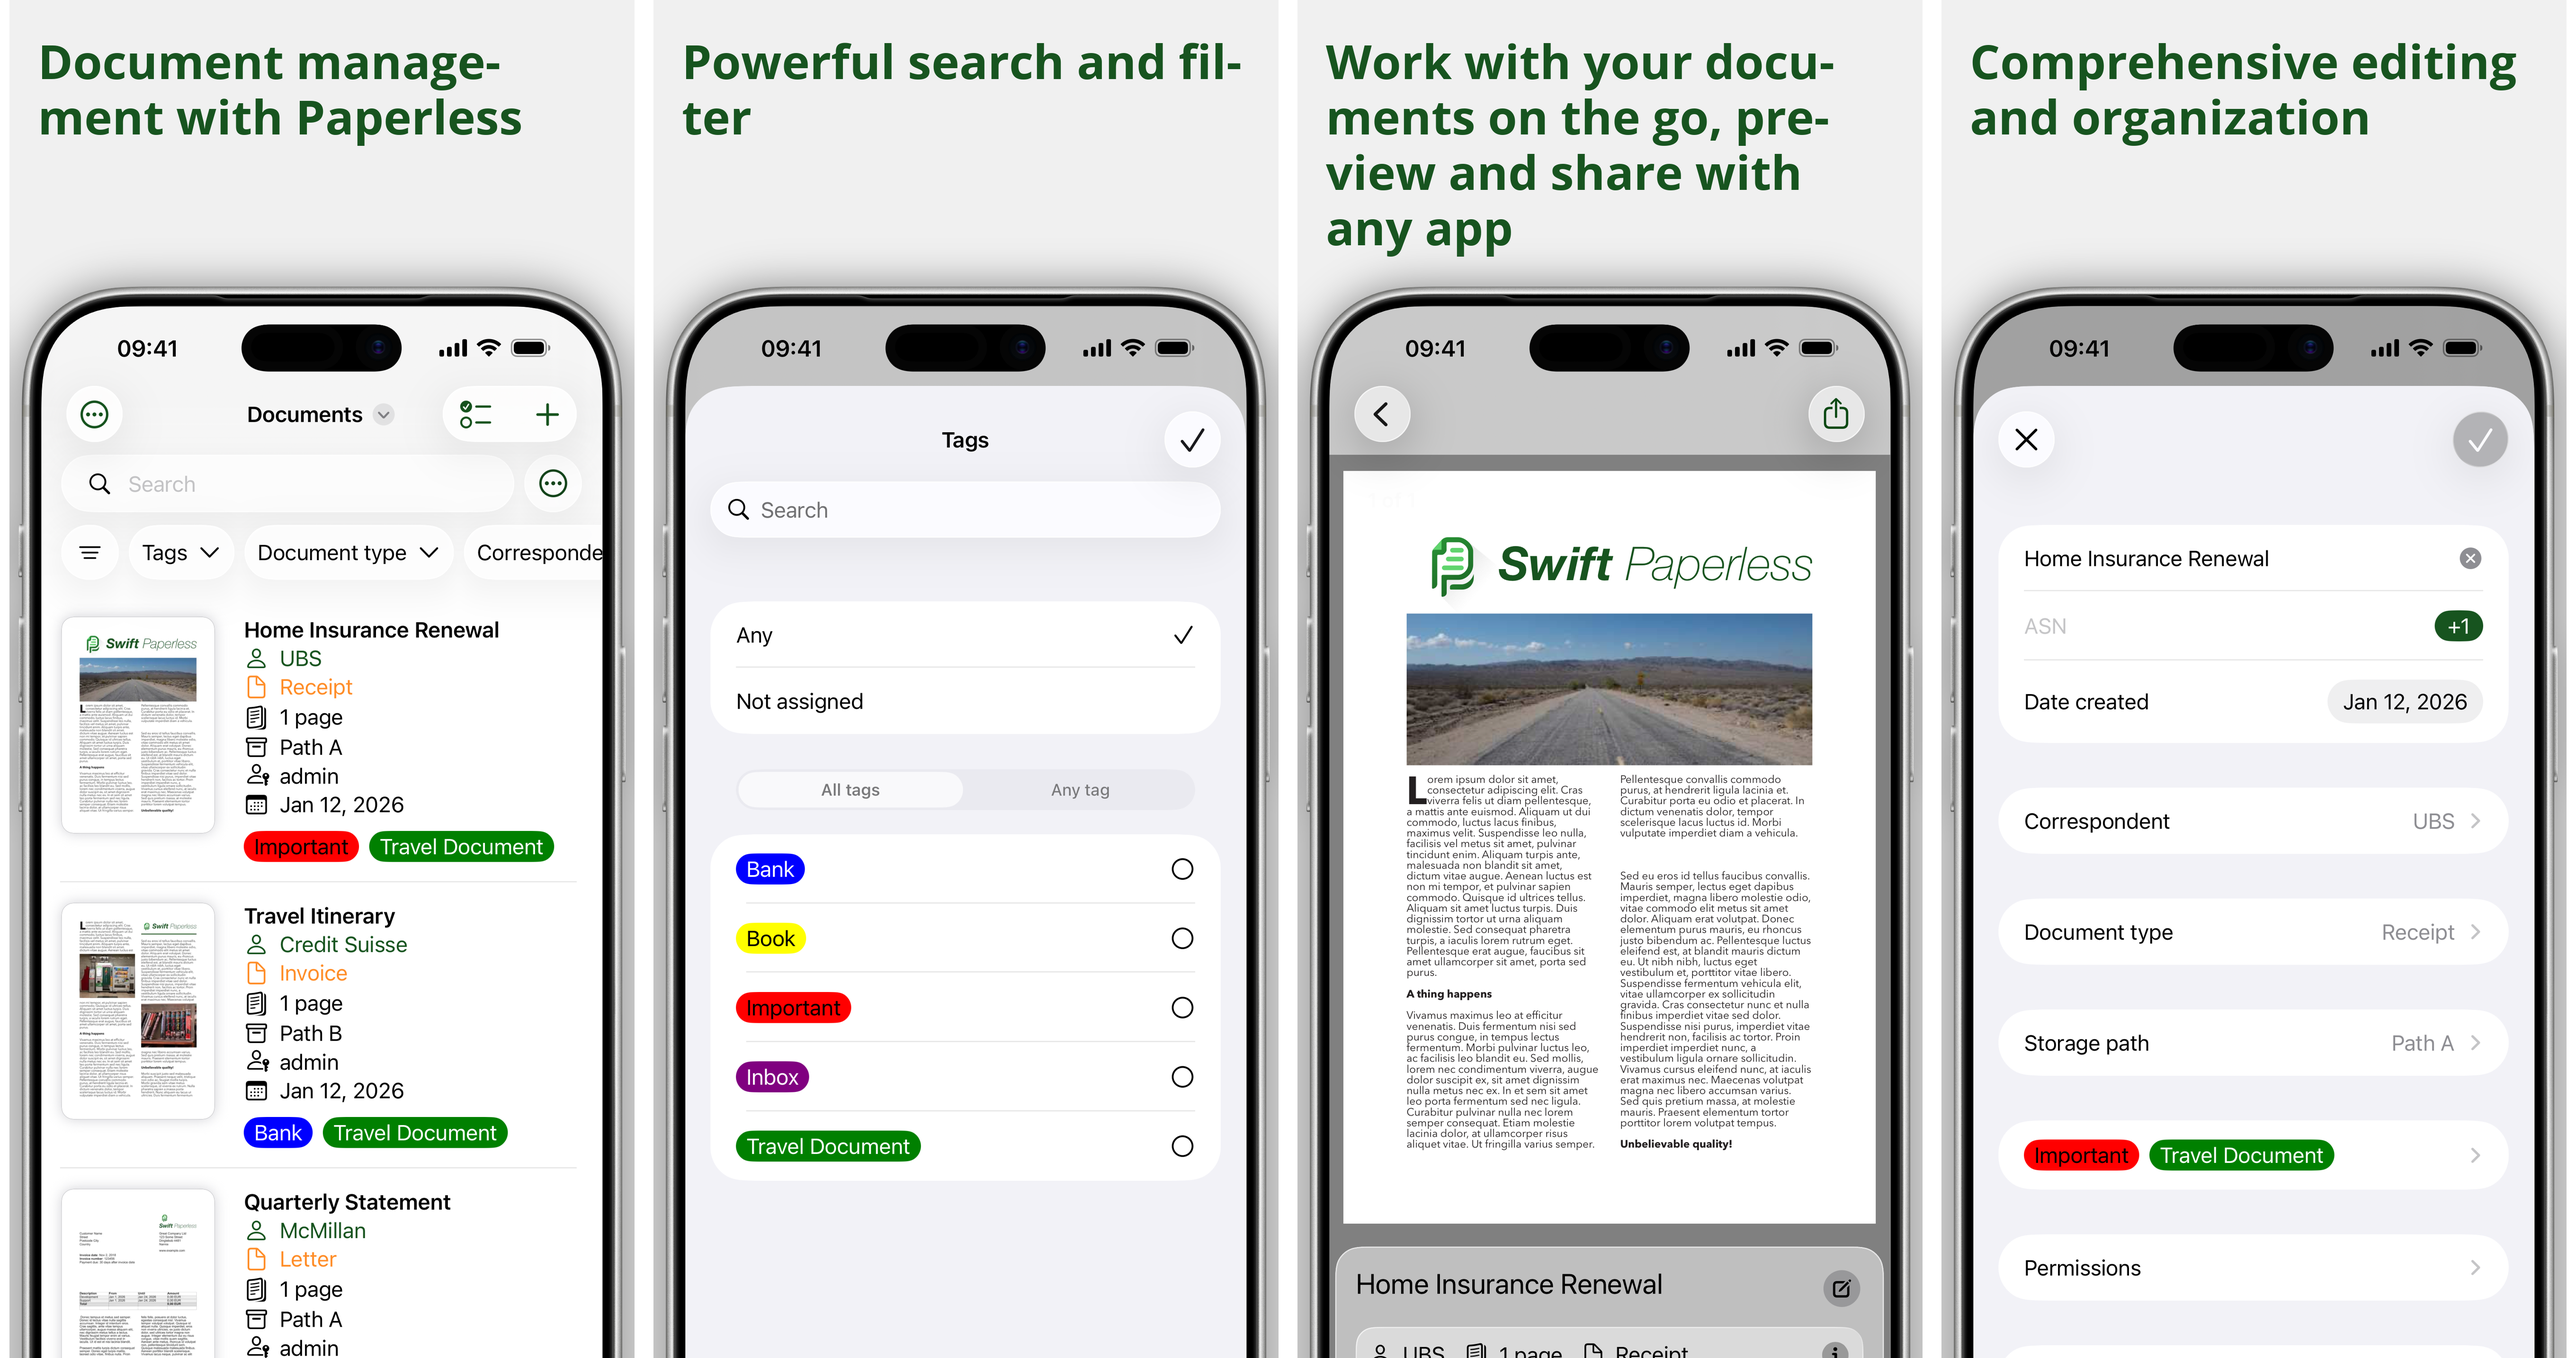
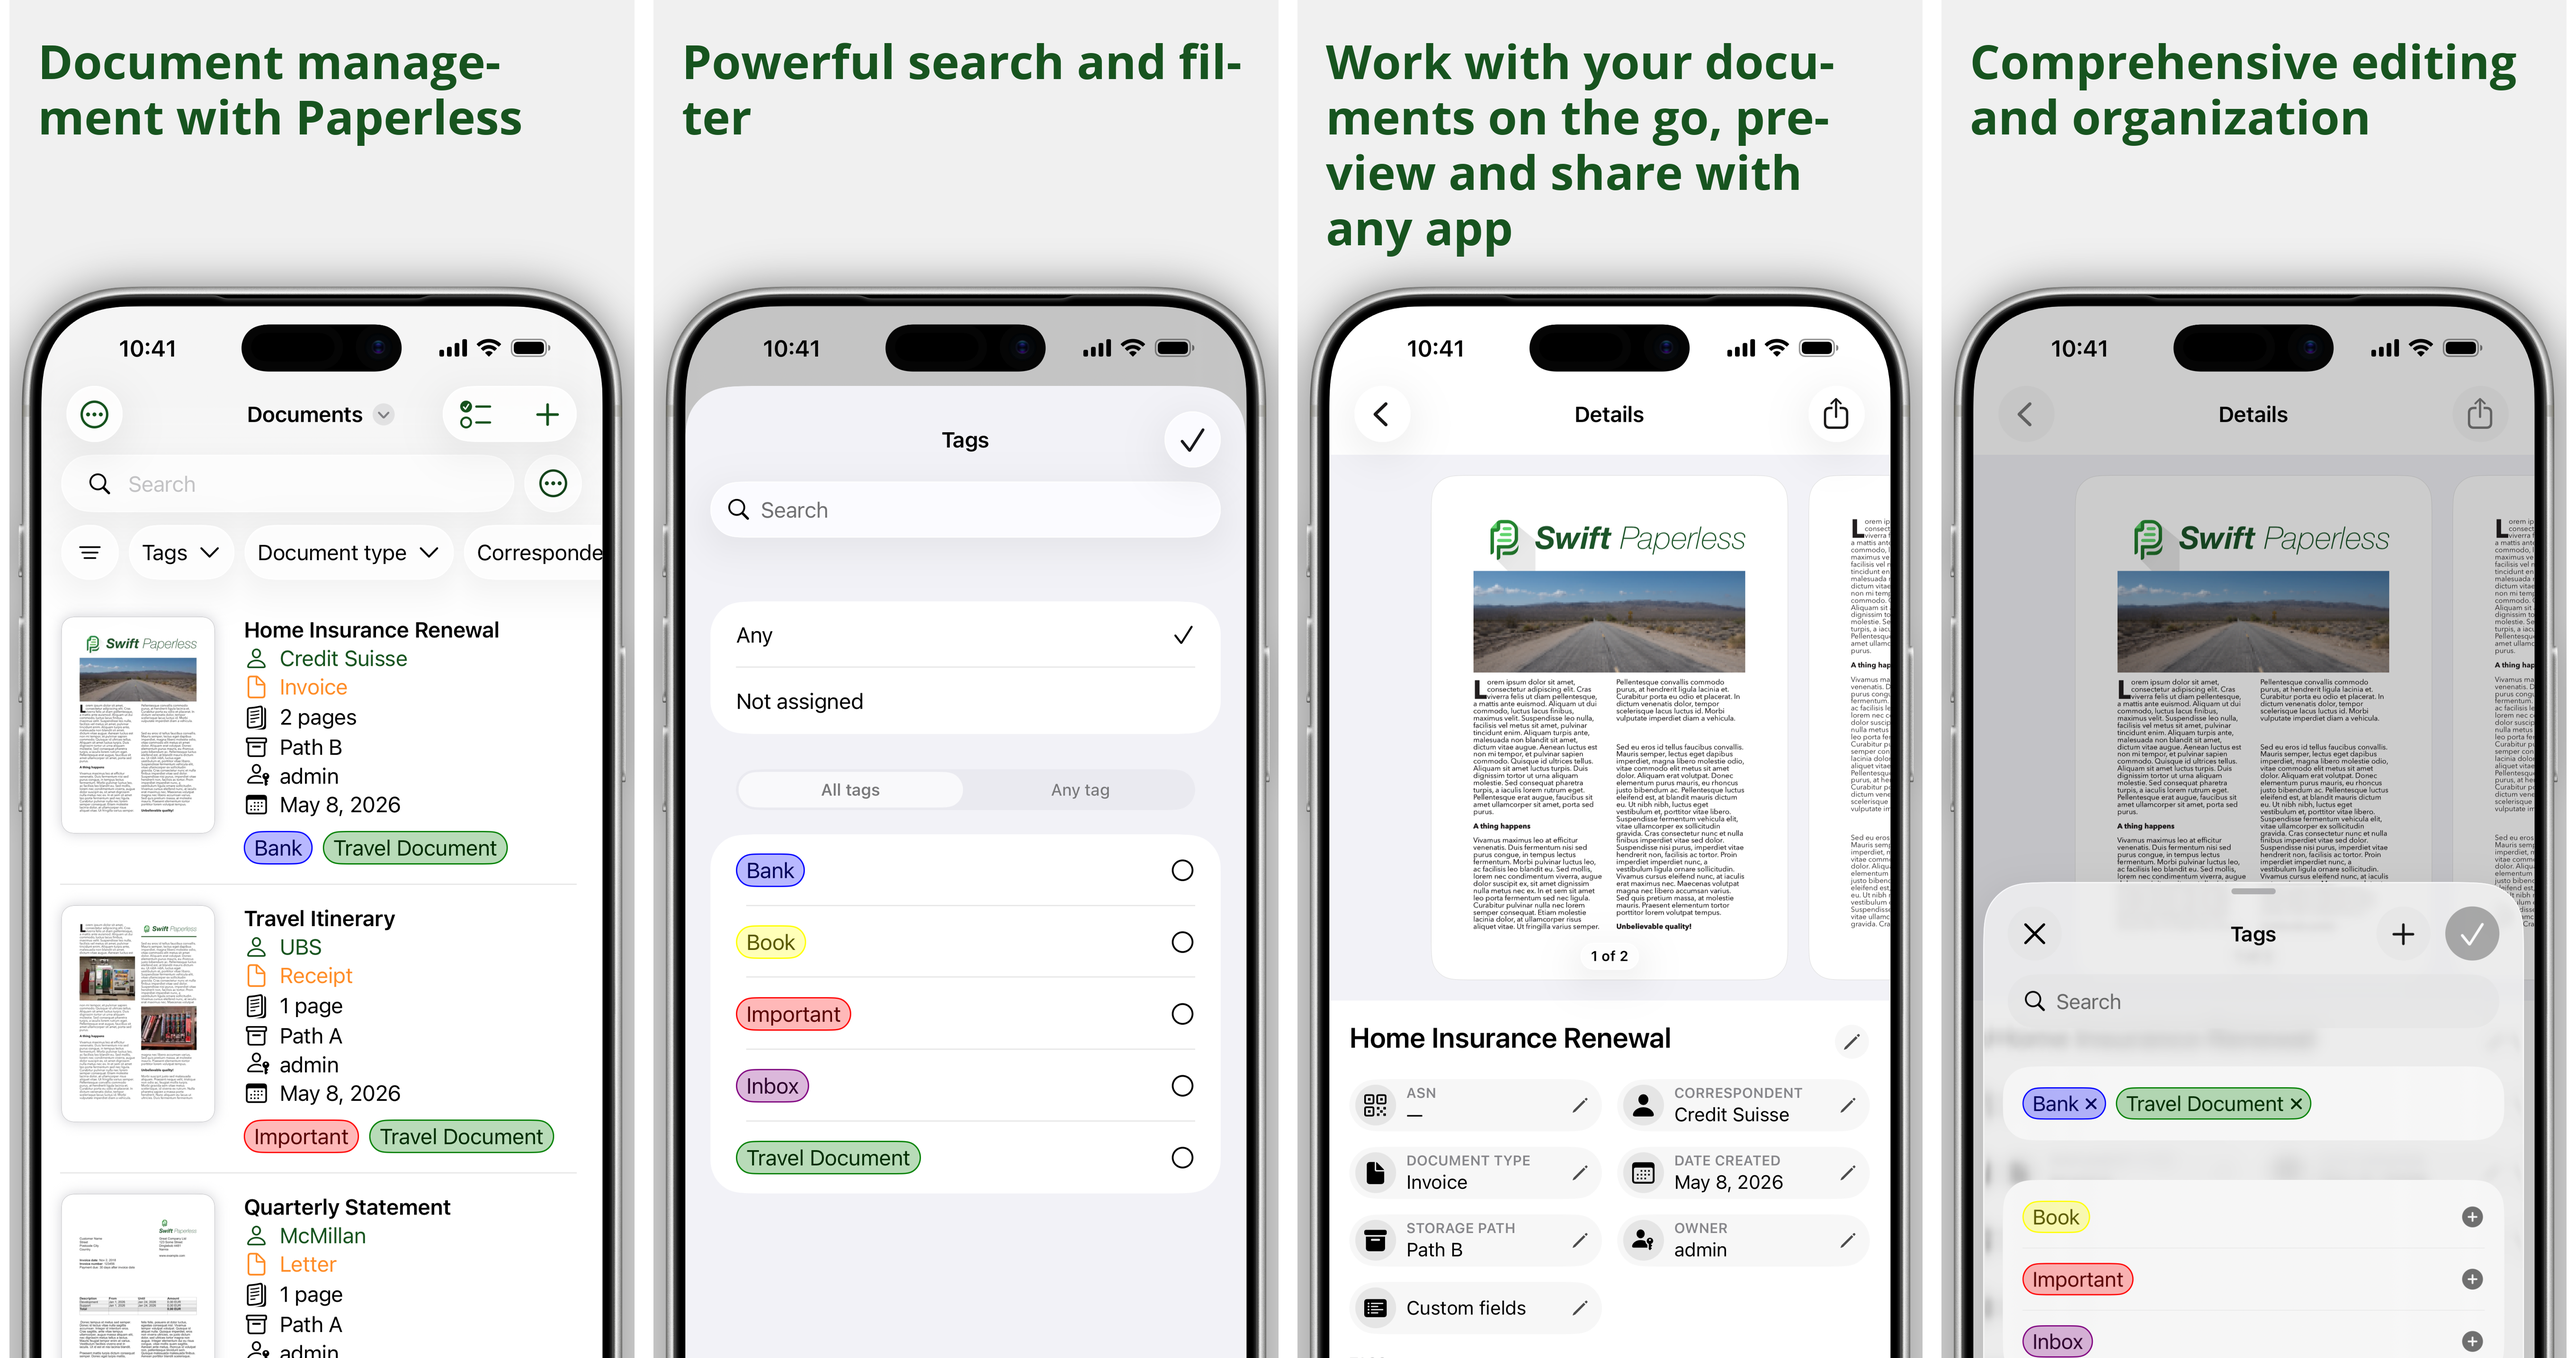
chore: Update panorama

diff --git a/README.md b/README.md
@@ -189,7 +189,14 @@ a UI-test-based path that is separate from the `swpngx` workflow above.
 Concatenate framed screenshots (adjust the glob for your device name):
 
 ```console
-montage fastlane/screenshots/framed/en-US/iPhone_17_Pro_Max-01_*-framed.png \
+montage fastlane/screenshots/framed/en-US/iPhone_17_Pro_Max-0*-framed.png \
     -tile 4x1 -geometry +20+0 panorama.png
 ```
+
+If `montage` fails with ``unable to read font `'``, the ImageMagick install has no
+configured fonts; pass one explicitly, e.g.
+`-font /System/Library/Fonts/Supplemental/Arial.ttf`.
+
+`docs/panorama.png` is a symlink to the top-level `panorama.png`, so regenerating
+it updates both the README and the docs site.
 <!-- --8<-- [end:maintenance] -->
